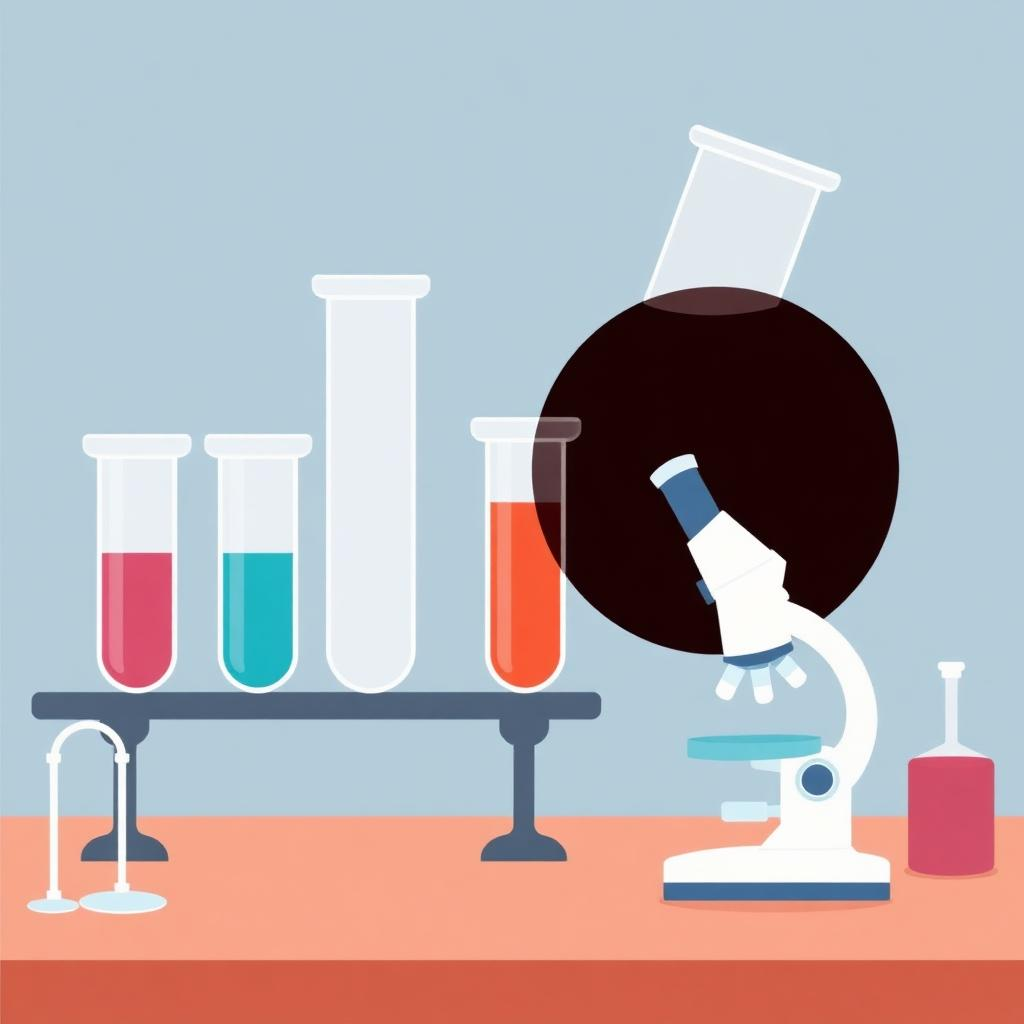
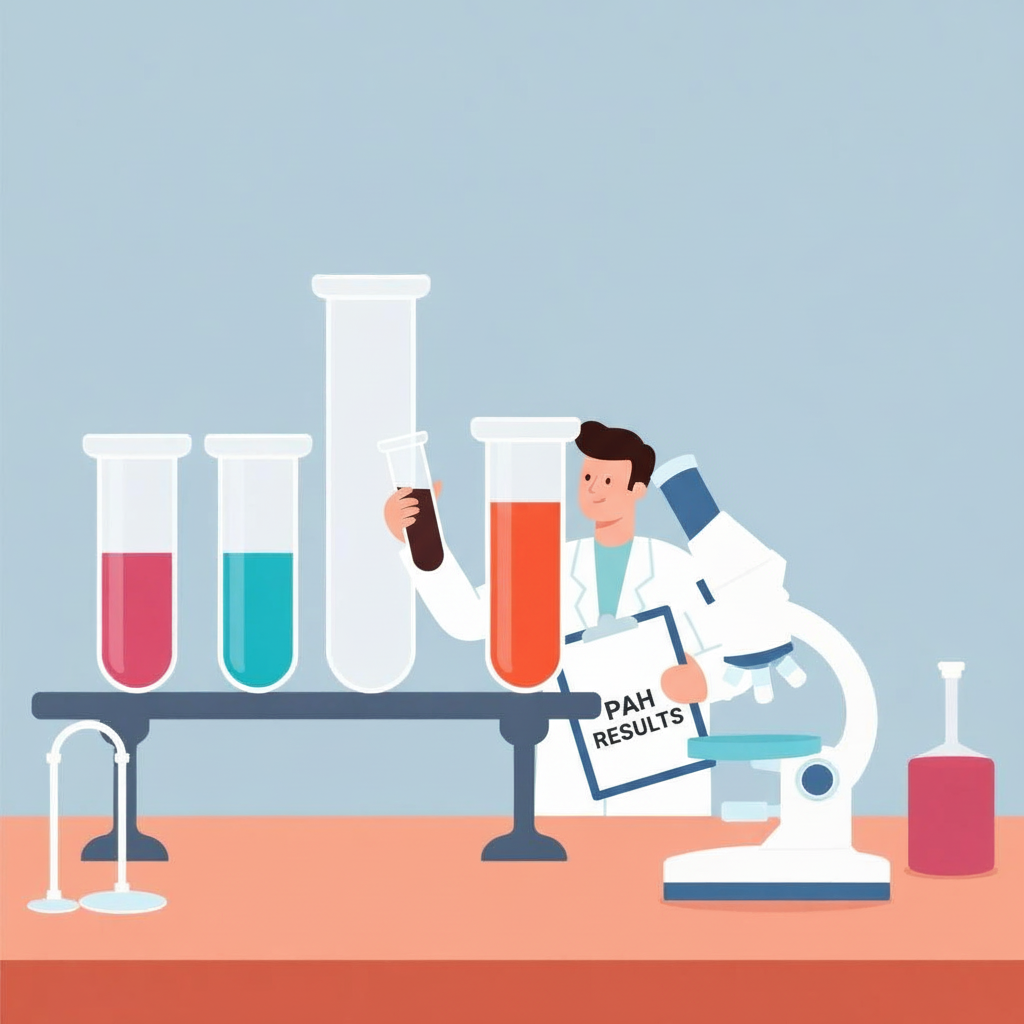
Changes

Changed region(s): [[0.5, 0.125, 0.9062, 0.8125], [0.375, 0.4062, 0.5, 0.625]]

diff --git a/src/pages/Index.tsx b/src/pages/Index.tsx
@@ -35,11 +35,11 @@ const scenes = [
     buttonText: "Analyze the Evidence",
   },
   {
-    title: "Laboratory Analysis",
+    title: "Scientific Discovery",
     description:
-      "You take samples back to the marine research lab for testing. The results are clear: the dark residue contains polycyclic aromatic hydrocarbons (PAHs)—toxic chemicals found in crude oil. The chemical signature matches something that happened in these waters years ago...",
+      "After sampling the black liquid on the dolphins, it is discovered to contain PAHs, which are chemicals that are found in oil. Could this have killed the dolphin?",
     factoid:
-      "PAHs are cancer-causing chemicals that can persist in the environment for decades. Marine animals exposed to these chemicals often develop heart problems, immune system disorders, and reproductive issues.",
+      "PAHs have been shown to lead to numerous diseases, and are so dangerous that the FDA doesn't allow animals containing PAHs to be eaten",
     image: sceneResearch,
     buttonText: "Reveal the Truth",
   },
